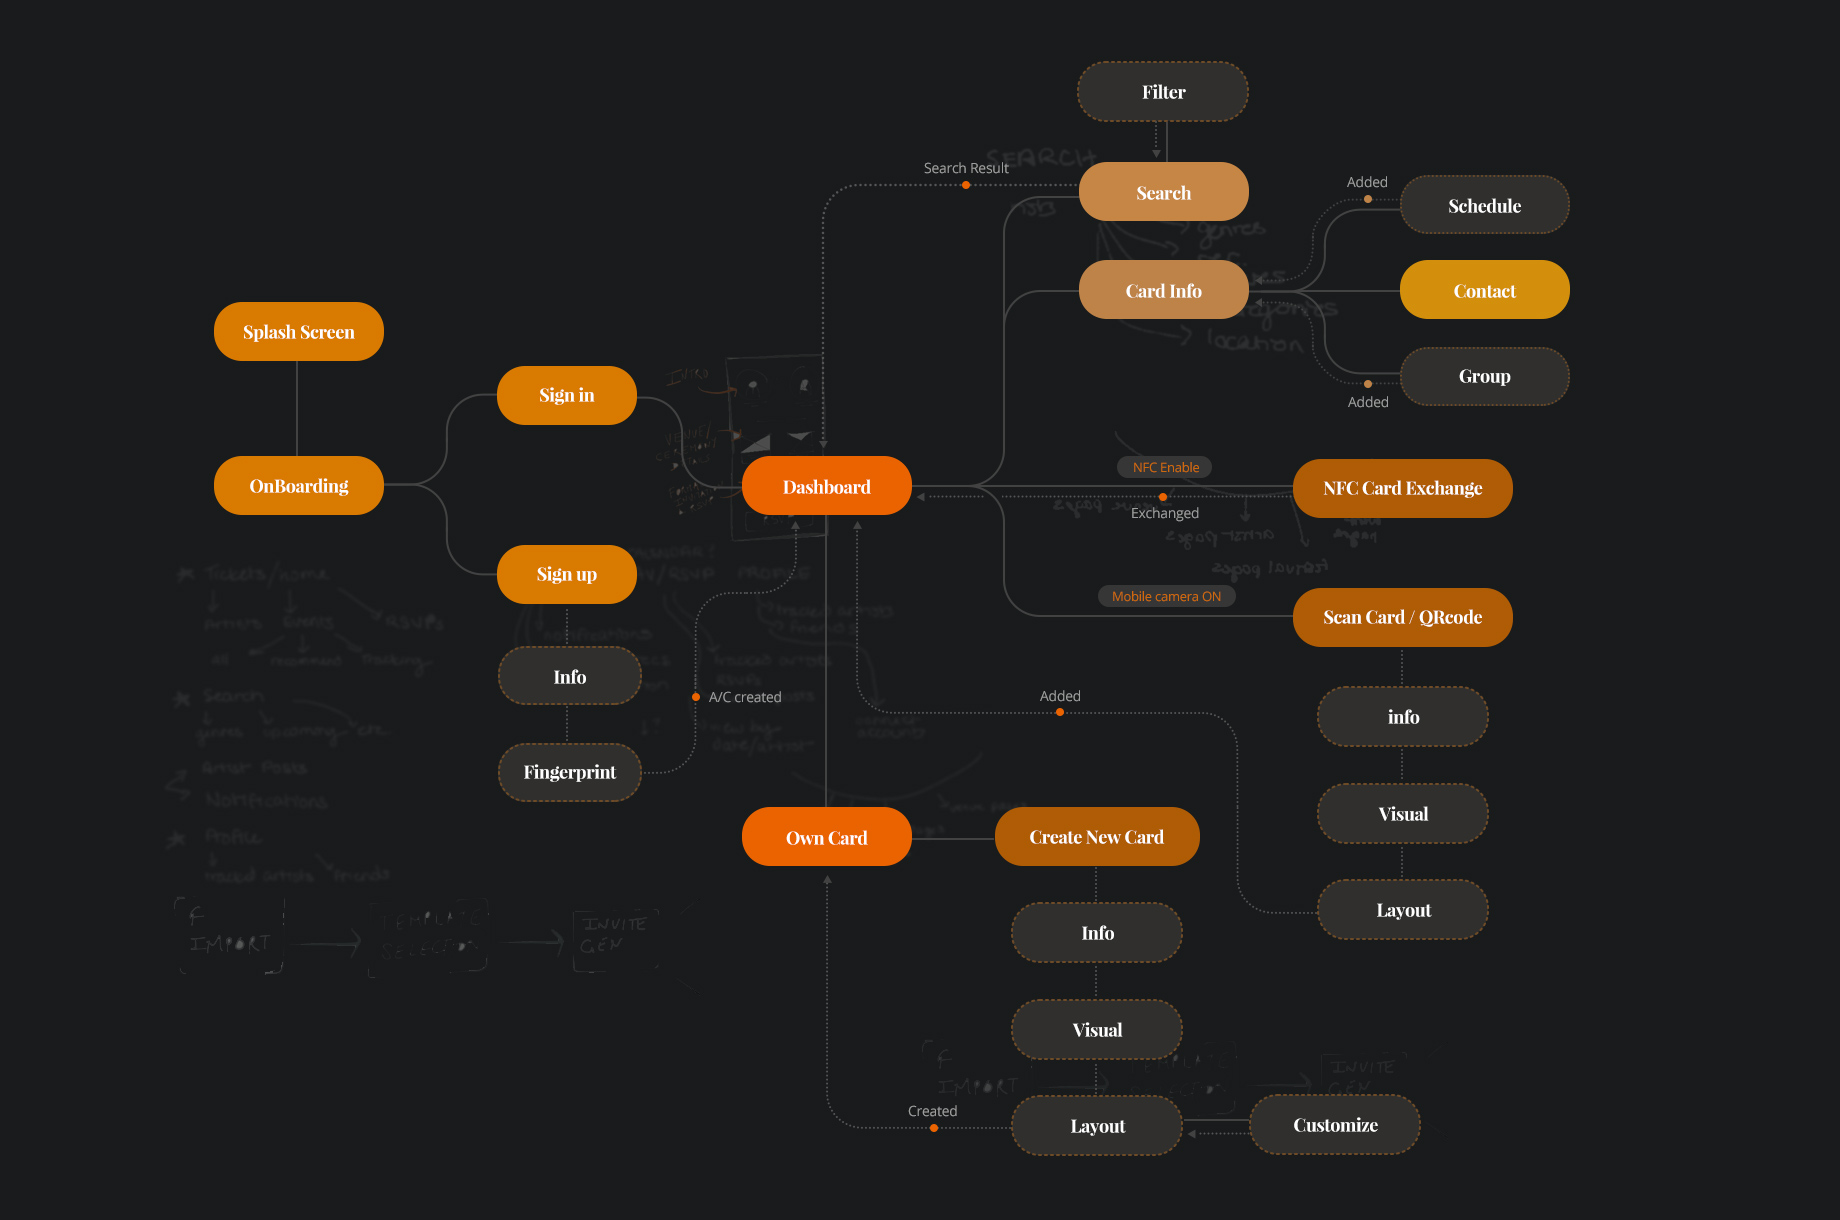
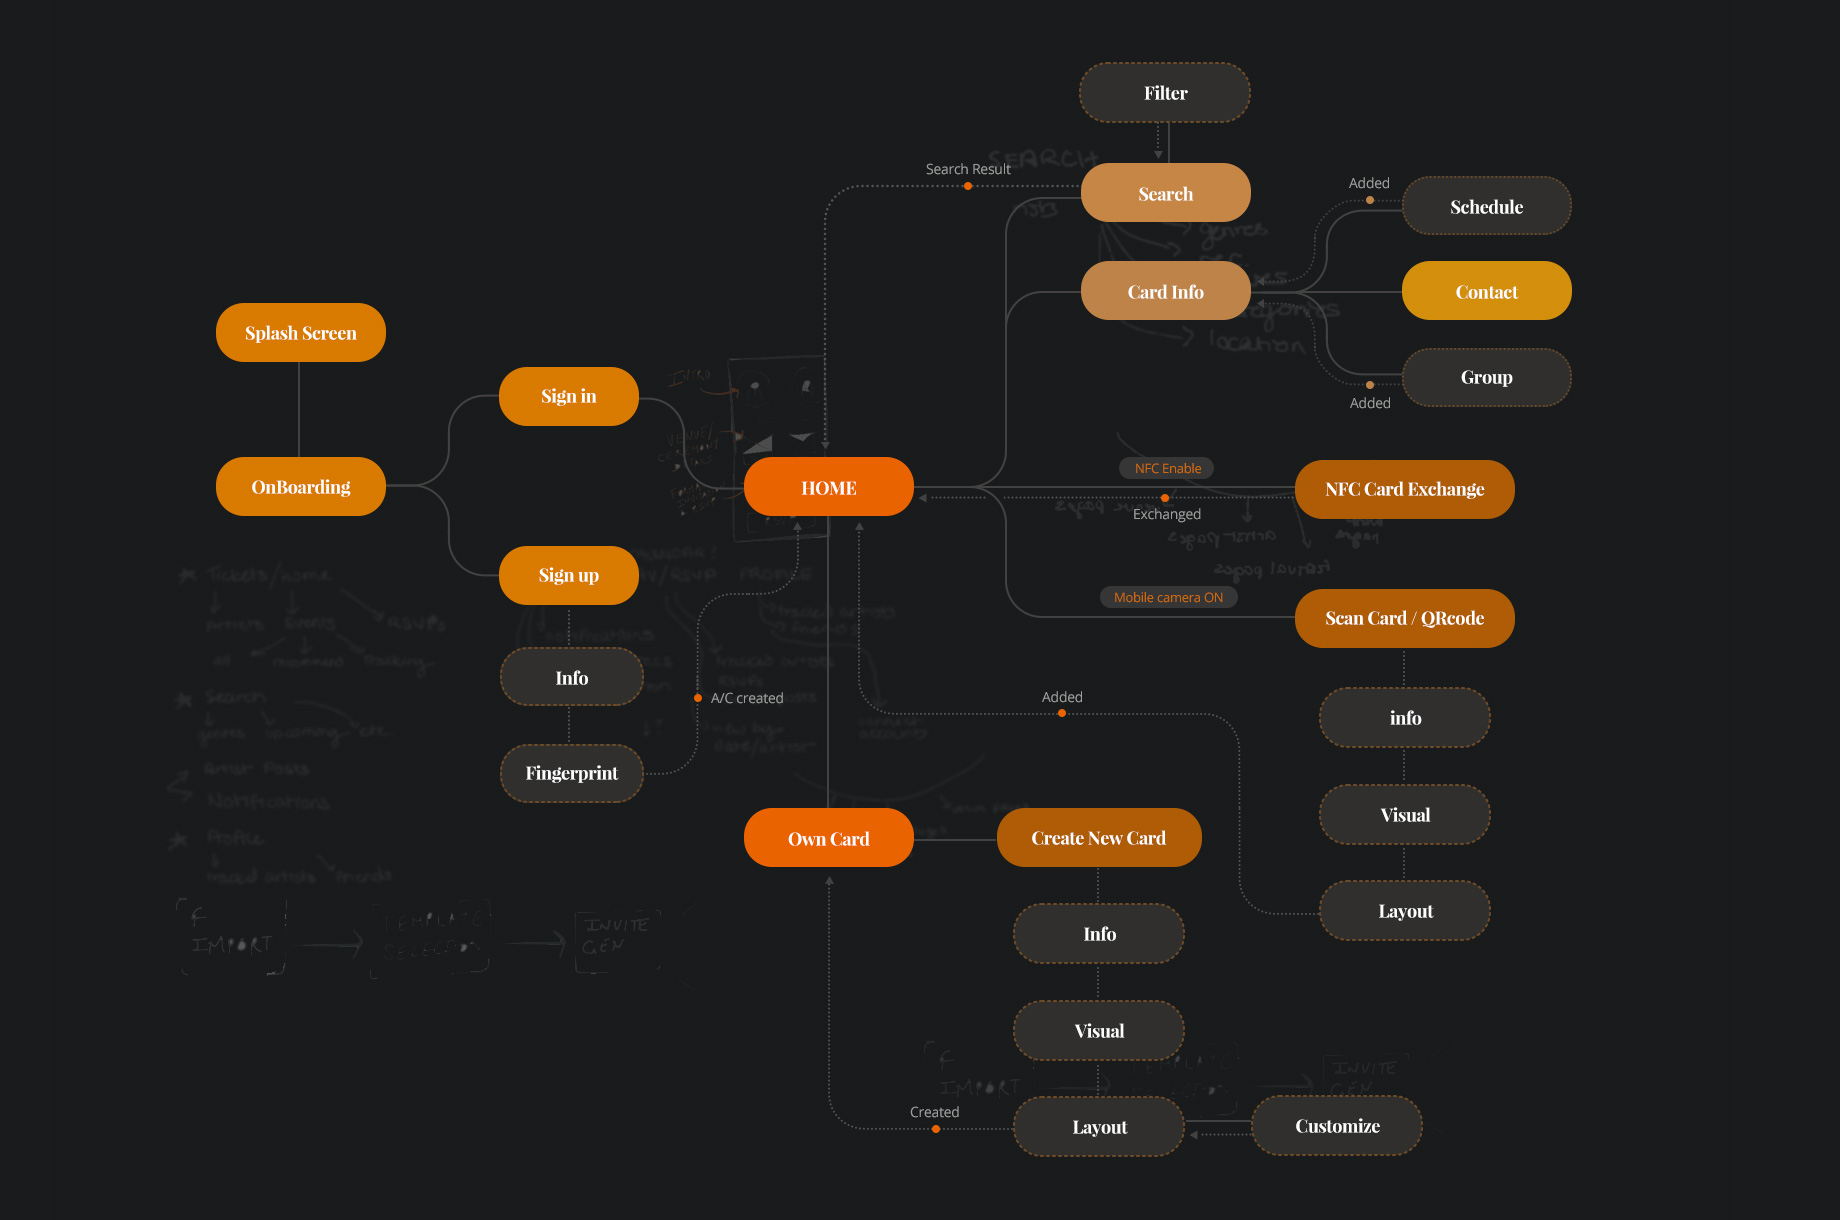
1212_04

diff --git a/project/rollcase.html b/project/rollcase.html
@@ -175,7 +175,7 @@
       <p class="observable h1 spacing-title">Key Insight</p>
       <p class="observable spacing-title h2">POINT #1</p>
       <p class="observable spacing-sub-title h6">How they currently business card management?</p>
-      <p class="observable body spacing-small">Organizing the business cards after meeting is major pain point of the both user digital and physical card, but always have been hassle work, The truth is, no one has the spend time to organize contacts and manually save business card details to their mobile or put into cardcase. In terms of the useability, They complained that the process feels complex and long. Additionally, in-app features not fufill users request currently during the real-life needs also.</p>
+      <p class="observable body spacing-small">Organizing the business cards after meeting is major pain point of the both user digital and physical card, but always have been hassle work, The truth is, no one has the spend time to organize contacts and manually save business card details to their mobile or put into cardcase. In terms of the useability, They complained that the process feels complex and long that decrease motivation and anticipation for users using the app. Additionally, in-app features not fufill users request currently during the real-life needs also.</p>
 
       <p class="observable spacing-title h2">POINT #2</p>
       <p class="observable spacing-sub-title h6">They dont worries impact of card lossing!</p>
@@ -206,9 +206,9 @@
 
     <div class="copy-width spacing-small">
       <p class="observable h2 spacing-title">SOLUTION</p>
-      <p class="observable body spacing-medium rollcase-color highlight-3">"What was the problem I were trying to solve?</p>
+      <p class="observable body spacing-medium rollcase-color highlight-3">"What was the problem I were trying to solve?<br>And how exactly does it apply?</p>
 
-      <p class="observable body spacing-medium">Throughout a few brainstorming by myself, and created an affinity diagram to identify the project scope and evaluated of the result. Here are ideating two main issue of the solution:</p>
+      <p class="observable body spacing-medium">Throughout a few brainstorming, and created an affinity diagram to identify the project scope idea and evaluated of the result. Here are ideating two main issue of the solution:</p>
     </div>
 
 
@@ -226,15 +226,15 @@
         <p class="observable body spacing-small">High task completion rate by keeping main interactions at a minimum. Focuses on visualising operation that able to lessening users mental workload and cognitive load. Through step-based solution and an amiable approach to the emotions of users. Interactions and visual design are simple, stripping down the complex steps section is key.</p>
 
         <ul class="observable body spacing-small">
-          <li class="spacing-sub-title"><span class="h6">Focuses on visualising operation without any design skill</span><br>Streamline the create own cards flow that able to lead them for further action decsion easily. Meanwhile, provide build-in template that speed up the process to lessening users mental workload.</li>
+          <li class="spacing-sub-title"><span class="h6">Focuses on visualising operation without any design skill</span><br>Provide more understandable the card creation flow that able to lead them for further action decsion easily. Meanwhile, provide build-in template that speed up the process to lessening users mental workload.</li>
         </ul>
 
         <ul class="observable body spacing-small">
-          <li><span class="h6">Shifting manage card habits after meeting</span><br>Exchange business card process are presented in a digestible way that resembles real life. intuitive motion within 2 step - Open it and share it. Once a card exchanged, allow user keep track of schedules, or set reminders for the future things, avoid extra app usage.</li>
+          <li><span class="h6">Shifting organize card habits after meeting</span><br>Exchange business card process are presented in a digestible way that resembles real life. Within 2 step - Open and share it. Once a card exchanged, allow user create the schedules and reminders for the future things, avoid extra app usage.</li>
         </ul>
 
         <ul class="observable body spacing-small">
-          <li><span class="h6">Eliminate manually work from physical card to digitalize</span><br>By in-App scanner feature auto-fill text field and editable format after extract data. Reduce user frustration of manage card, shifting physical card user thinking also.</li>
+          <li><span class="h6">Eliminate manually work from physical card to digitalize</span><br>By in-App scanner feature, that auto-fill text field and editable format after extract data. Reduce user frustration of manual entry errors and manage card, entry barrier to physical card user also.</li>
         </ul>
       </div>
     </div>
@@ -245,8 +245,8 @@
         <p class="observable spacing-title highlight-2">#2</p>
       </div>
       <div class="copy-width-col-copy-r-copy">
-        <p class="observable h1 spacing-sub-title">Effective Dashboard increases convenience</p>
-        <p class="observable body spacing-large">Base on the result, A user would be expect the same logic as the organize thier business card they previously used. Establishing a "Dashboard" like as real-life cardcase where as card hub overview and all key task in one spot, to better displaying what it is meant to be showing: CARD! which improving its feature access and relevant thier onward journey easily than to describe it with pure of contact list.</p>
+        <p class="observable h1 spacing-sub-title">Effective Digital Cardcase increases convenience</p>
+        <p class="observable body spacing-large">Base on the result, A user would be expect the same logic as the organize thier business card they previously used. Establishing a Home as "Digital Cardcase" like as real-life where as card hub overview and all key task in one spot, to better displaying what it is meant to be showing: CARD! which improving its feature access and relevant thier onward journey easily than to describe it with pure of contact list.</p>
       </div>
     </div>
 
@@ -267,7 +267,7 @@
 
     <div class="copy-width spacing-large">
       <p class="observable h1 spacing-title">Emphasize task flow and Feedback</p>
-      <p class="observable body spacing-small">I reviewed necessary features and focused on interaction that needed improvement. I draft three sets of wireflow mocks that are essential to the concept: 1. Dashboard, 2. Create Own Card and 3. Scan Card. I tested with two participants that to identity their preferences for accessibly and understandable when perfrom 3 task:</p>
+      <p class="observable body spacing-small">I reviewed necessary features and focused on interaction that needed improvement. I draft three sets of wireflow mocks that are essential to the concept: 1. Home, 2. Create Own Card and 3. Scan Card. I tested with two participants that to identity their preferences for accessibly and understandable when perfrom 3 task:</p>
 
       <div class="copy-width observable spacing-small">
         <img class="spacing-small observable lazy" data-src="../images/projects/rollcase/draft_create.jpg" />
@@ -284,10 +284,10 @@
       <p class="observable body spacing-small">In terms of the scan card processing, Above is another example; testing showed users were unsure whether the correct part of the card shot was selected and edit after; Following its implementation, however, users were overlooking and missing the contact data beneath it. In the high-fidelity version, a card preview was added accordingly. So the card preview became more clearly for thier editing if data extract not correctly.</p>
 
       <div class="copy-width observable spacing-small">
-        <img class="spacing-small observable lazy" data-src="../images/projects/rollcase/draft_dashboard.jpg" />
+        <img class="spacing-small observable lazy" data-src="../images/projects/rollcase/draft_home.jpg" />
       </div>
 
-      <p class="observable body spacing-copy">Dashboard action:</p>
+      <p class="observable body spacing-copy">Home / Digital cardcase action:</p>
       <p class="observable body spacing-small">Here, I plan to give the digital card overview more visual impact. Lucky, They love the card list vertical scrolling feel cool. Perhaps, heightens the motivation and anticipation for users using the app. In further to stand out digital card section, remove describe of icon in mid filter bar shown icon symbol only.</p>
 
 
@@ -354,7 +354,7 @@
 
 
     <div class="copy-width spacing-medium">
-      <p class="observable body spacing-small">Dashboard is the core screen of the app, where displaying the overview of current card status. In Actually, Designing interaction with vertical scrolling which way give users feel "Real" cardcase so that the same motion here. By placing the core feature button in an obvious location, which design frosted glass effect that incorporating card and dynamic visuals. The card are still blurred behind another when user scrolling, its more catchy.</p>
+      <p class="observable body spacing-small">The Home as "Digital Cardcase" is the core screen of the app, where displaying the overview of current card status. In Actually, Designing interaction with vertical scrolling which way give users feel "Real" cardcase so that the same motion here. By placing the core feature button in an obvious location, which design frosted glass effect that incorporating card and dynamic visuals. The card are still blurred behind another when user scrolling, its more catchy.</p>
       
       <p class="observable body spacing-small">By default, lastest card is top of list. Tap on mid-bar quick filter panel allows a user to sort out contact list rapidly, where are sort type: recent contact, favorites, company, group etc. Tap on a card to show detail of the people. Users can swipe left phone number icon make a phone call directly. Additionally, user can add people on the contact list if they have a relationship. This features was inspired by drafts iterating phase. Let user follow up with thier personal network.</p>
 
@@ -370,12 +370,12 @@
     <div class="copy-width spacing-medium">
       <p class="observable body spacing-copy">As prototyping shown, A three step-based approach lead them to built up the card element which fully-customizable.</p>
 
-      <p class="observable body spacing-small">Once the user tap on a headshot they are taken to the "My card case" which is hub of own card. Within the create own card process where 3 mode to
-      <br>1. Start all over - Step by Step creation
+      <p class="observable body spacing-title">Once the user tap on a headshot they are taken to the "My card case" which is hub of own card. Within the create own card process where 3 mode to:</p>
+      <p class="observable body spacing-small">1. Start all over - Step by Step creation
       <br>2. Corporate - Access from cloud storage after created
       <br>3. Scan card - Physical card by OCR scanner</p>
 
-      <p class="observable body h6 spacing-copy">Start all over</p>
+      <p class="observable body h6 spacing-title">Start all over</p>
       <p class="observable body spacing-small">In step 1 - Contact Info where user can import from address book, mail and vCard format sync through thier phone, so that contact info is always up to date which is prevent manual data entry errors. also, user can adding head icon if needed.</p>
 
       <p class="observable body spacing-small">In step 2 - Digital card visual creation is divided to two option:<br>
@@ -398,9 +398,9 @@
     <div class="copy-width spacing-small">
       <p class="observable body spacing-small">As mentioned previously, After users created first rollCase digital business card. It automated work almost completely meet users needs by NFC’s feature card exchanging. If the partner has rollCase app, even better.</p>
 
-      <p class="observable body spacing-small">As prototyping shown, swipe up center" Exchange" icon in the dashboard. Users can swiping business card wanted exchange to if they are muiltipe card users. Once card exchanged , they can save it directly to their phone. In additional, share card via QR code (auto generated by card created) or vCard file format with the people even other person doesn’t the rollCase app.</p>
+      <p class="observable body spacing-small">As prototyping shown, swipe up center "Exchange" icon in the Home screen. Users can swiping digital card wanted exchange to if they are muiltipe card users. Once card exchanged , they can save it directly to their phone. In additional, share card via QR code (auto generated by card created) or vCard file format with the people even other person doesn’t the rollCase app.</p>
 
-      <p class="observable body spacing-medium">Dashboard was showing new card after exhanged. Then, by long tap the digital card where lets user edit, delete. It also comes with card share via email, WhatsApp, Facbook and Skype etc. Within the card detail page, where give user to add notes/schedule reminder with dates organizing activities if needed.</p>
+      <p class="observable body spacing-medium">The Home screen was showing new card after exhanged. Then, by long tap the digital card where lets user edit, delete. It also comes with card share via email, WhatsApp, Facbook and Skype etc. Within the card detail page, where give user to add notes/schedule reminder with dates organizing activities if needed.</p>
 
       <!--<p class="observable body spacing-large">Add Demo like filp my card to back show qrcode  Exchange with qrocde / soical media / vcard file</p>-->
     </div>

diff --git a/project/jy_reader.html b/project/jy_reader.html
@@ -155,9 +155,13 @@
       <p class="observable h1 spacing-title spacing-small">Pain Point</p>
         <ul class="observable body">
           <li><b><!--🤕--> Incomplete reader feature</b><br>All of them didn’t know where to check reading status of novels thier reads. They said that not having a track detail or history caused inconvenience especially long period reading users and want to evaluate time.</li>
-          <li><b>Reading Device</b><br>Uncomfortable reading on limited screen of mobile that most obvious comment of printed users. 5 people who said reads at MTR has interference and shoulder pain. 1 people who said Amazon Kindle wide screen for well reading.</li>
+
+          <li><b>Reading Device</b><br>Uncomfortable reading on mobile screen is most comment users. They need long scrolling and swiping on the screen frequently. 5 people who said reads at MTR has interference and shoulder pain. 1 people who said Amazon Kindle wide screen for well reading.</li>
+
           <li><b>Lack of Book genres</b><br>4/8 of them said that not provided of Jin-Yong's and relevant novels book and interesting content.</li>
+
           <li><b>Ugly Interface</b><br>6/8 of them said that boring layout and unappealing, especially avid readers mentioned "It's not catching for me".</li>
+          
           <li><b>App Crash</b><br>Other mentioned the app error or bugs</li>
         </ul>
     </div>
@@ -213,7 +217,7 @@
 
     <div class="copy-width spacing-medium observable">
       <p class="observable h2 spacing-title">SOLUTION</p>
-      <p class="observable body spacing-medium jy-color highlight-3">So how I got to the solution?<br>And how exactly does it solve?</p>
+      <p class="observable body spacing-medium jy-color highlight-3">So how I got to the solution?<br>And what problem are we trying to solve?</p>
 
       <p class="observable body h1 spacing-title">Developing the Themed-Bookstore</p>
       <p class="observable body spacing-small">During the discovery phase which inspired me to create a themed bookstore. With that in mind, I determined to transform the e-book reader app came up to a Jin-Yong's theme bookstore where through reconstructe the whole experience and gain value as well. During the result of user research phase, I identified that the approach of themed bookstore was aligning well with the acheive users goals concurrently. This approach giving readers multiple levels of imagery and feelings to enhance the reading experience and align with avid readers needs.</p>
@@ -268,7 +272,7 @@
       </div>
     </div>-->
 
-      <p class="observable body spacing-small">Although mobile used widely, Single-handed opreate that not ideal for long time reading, especially a ton of words of novels. It was inefficient and time-consuming. Discovery users needs and observation of real life situations during the user feedback. User needs frequently action of scrolling swipe down or swipe left during reading process that decrease motivation and anticipation for users using the app.</p>
+      <p class="observable body spacing-small">Discovery users needs and observation of real life situations during the user feedback. User needs frequently action of scrolling swipe down or swipe left during reading process that decrease motivation and anticipation for users using the app. Although mobile used widely, but not ideal for long time reading, especially a ton of words novels. that makes our eyes work a little harder than, if we were long period reading on mobile screen.</p>
 
       <p class="observable body spacing-medium">Suitable platform is one of key they’re looking for. I intend to design with a "Tablet-first" approach that bring the user optimal of usability and comfortable experience, eye risk health issues is important as well. The tablet scale screen not only lowers abandonment rates, but can also concentrate on reading. Landscape orientation almost same as physical hard-copy size.</p>
 

diff --git a/interview.html b/interview.html
@@ -49,7 +49,7 @@ UMG Case Study:
 
 Research why they left
 我哋公司同UMG marketing team 揾左10人 做左個 survey, 分析左之後有3個point 
-1. Content design and structure整理得唔太理想同有d亂
+1. Content design and structure整理得唔太理想同有d亂.....帶動多d銷售
 2. 
 3. 冇social media content, 例如UMG旗下artist facebook live, 網上新碟發佈, 官方活動
 
@@ -68,8 +68,13 @@ https://www.chloelinkner.com/#/the-beatles/
 -----------------------------------------------------
 roll:Case Case Study:
 
-簡單同圖像化 flow, 令user容易完成任務變做Digital卡, 同時降底門檻比實體卡user用呢個APP, 實現無紙化
+Project goal
+簡單流程同圖像化交互體驗 flow, 令user容易完成任務變做Digital卡, 同時降底門檻比實體卡user用呢個APP, 增加潛在市場, 實現無紙化
 Dashboard home: 可以睇到overall既卡, 似現實中卡片盒, Key task放哂糸home度
+
+這個應用程序是我從事的第一個涉及 UX 任務的項目，也是 UX 領域的新手。我執行了一個端到端的過程——從了解用戶的真實需求到實施它。
+
+
 
 Create卡 同 Scan卡 import入  Step-base方法 直覺完成任務
 
